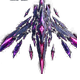
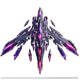
Unify Phantom sprite cells

diff --git a/CHANGELOG.md b/CHANGELOG.md
@@ -578,3 +578,10 @@
 - Added `sk_phantom_butterfly` from the supplied character sheet.
 - Cropped and resized only; no redraw, recolor or mirroring.
 - Kept the same 80×80 sprite canvas as Quantum/Raven.
+
+## 0.9.6 — Unify Phantom sprite cells
+
+- Rebuilt Quantum, Raven and Butterfly from their full 512px design cells.
+- Preserved original padding and all floating shards; no tight-bbox scaling.
+- Removed title text and Raven detail cards only.
+- Kept all three on the same 80×80 canvas.
